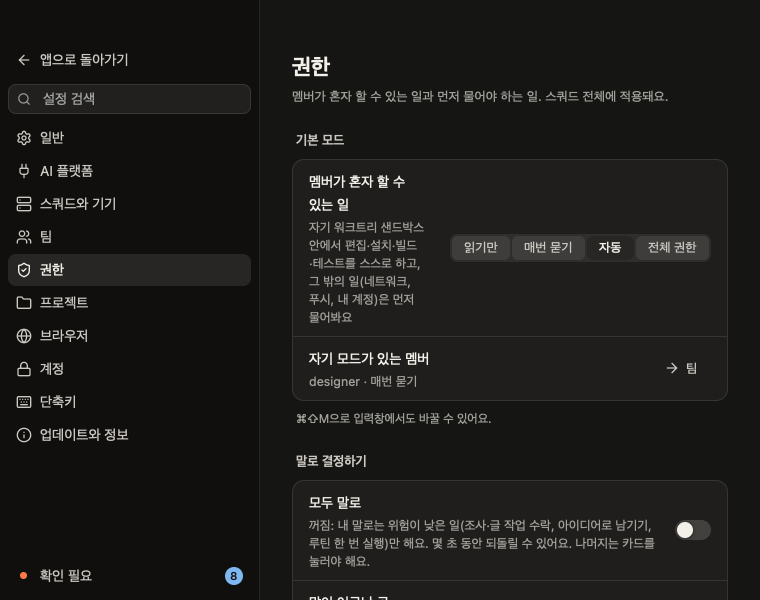
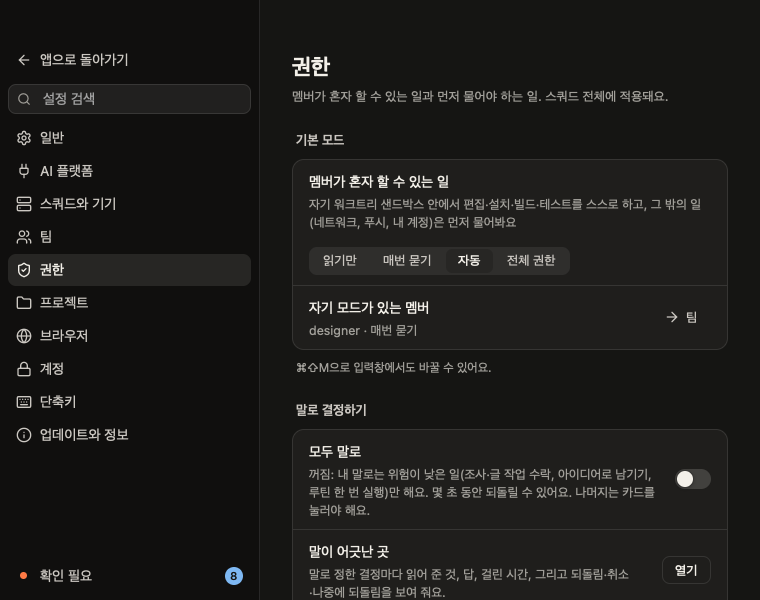
Desktop 760pt hierarchy: permission mode picker wraps under its words; studio wait card says what to answer and how to get there
The permission mode picker drops under its words in a narrow card. The studio's wait card names what to answer, keeps the directions' stage right under a pick, has an action that Enter and Space press (a pick opens this ticket's decision card), and takes only the first Tab.

diff --git a/crates/desktop/src/snapshot.rs b/crates/desktop/src/snapshot.rs
@@ -21,7 +21,8 @@
 //! `design[:<overview|colors|type|spacing|radius|shadow|motion|components|assets|guidelines|taste>]` (Design system, at a section) · `dsource:<squad|project:name>` (another system) · `ddraft` (its draft, or back) · `dwork` (the work under way on it, or back) · `dchanges` (what changed, opened or closed) · `dlight:<n>` / `dlight:off` (asset n big) · `dcomp:<n>[,<k>]` / `dcomp:off` (component n's kth picture big) · `dplay:<token>` (a motion token played, as under the pointer) · `dask` (ask the designer for one) · `dtoc:<n>` (the guidelines' nth heading) ·
 //! `dtab:<map|system>` (UI map or Design system) · `fflow:<id>` (a flow) · `fscreen:<id>` (a screen's card, clicked) · `fstate:<key>` (a state's chip; `+empty` for one missing) · `fmode:<light|dark>` · `fdata:<real|example>` (Real data or Example data) · `fwidth:<px>` · `fzoom` (the state big) · `fvideos` (the older walkthroughs, listed or not) · `fsay` ("Talk" on the open state) · `dsay:<token>` / `dsay:asset:<n>` / `dsay:component:<n>` ("Talk" on a colour or type style by name, asset n or component n) · `dtalk:<open|fold>` (the conversation beside the design screen) · `dunpoint:<n>` (chip n taken off) · `fkey:<left|right|up|down|escape>` ·
 //! `dcompare[:off]` (Compare and review, begun or ended) · `dside:<now|after>` · `dstep[:prev]` (the next or previous changed screen) · `daccept` · `dredo[:<words>]` ("Ask again"'s box, with words) · `dredosend` · `dversions` (Version history, opened or closed) · `drestore:<n>` (row n asked back: its confirmation) · `dtaste:<add|edit:<n>|type:<words>|save|cancel|remove:<n>|confirm:<n>|evidence:<n>>` (a taste note: write a new one, rewrite note n, type in its box, keep it, put the box away, remove note n, say "That's right" to note n, open or close its evidence) ·
-//! `cfocus` (the summary band's retry, focused by keyboard) · `mark:<label>` (a line in the log, with the process's CPU time and memory) · `a11yon` / `a11y:<json>` (the accessibility tree built, as for a screen reader; then written) · `scroll:<n>,<dy>` (n wheel turns a frame apart) · `wheel:<x>,<y>,<n>,<dy>` (the same with the pointer at `x,y`) · `pinch:<x>,<y>,<n>,<delta>` (a trackpad's pinch there, n frames of `delta` each) · `browser` (the browser panel, ⌘⇧B) · `doc:<path>` (a document in the side panel) · `packet` (the hand-over packet the member on screen opened with after its latest move to the other engine) · `docs` (briefs and plans, all in one place) · `docsfind:<words>` · `docsfilter:<project:<name>|squad|kind:<brief|plan>|status:<word>|clear>` · `docsopen:<n>` (its nth row, beside) · `docskeep:<set>,<n>` (keep copy n of a set saved under more than one project) · `dfold[:open]` (fold it to a rail, or open it again) · `dmore` (its "more" menu) · `term[:<line>]` (the terminal, with a line typed at its prompt) · `tkeys:<text>` (typed into it, `~` for Enter) · `tmove` (the terminal to the bottom, or back to the right) · `bpick:<n>` (its nth tab) · `bclose:<n>` (its ✕) · `bwheel` (a wheel over the page) · `btake` / `bgive` (its control bar: "Take over", "Give back") · `breveal:<page>` (a page waiting for the person, as Needs you opens it) · `bclick:<fx>,<fy>` (a click on the page, at fractions of its picture) · `bkeys:<text>` (typed key by key, `~` for Enter) · `bime:<step>|<step>|…` (an IME's steps composed, then the last committed: `bime:k|か`) · `press:<keystroke>` (one key through the window: `escape`, `cmd-,`) · `bopen:<url>` (a tab of the person's own) · `paste` (⌘V with what the clipboard holds) · `pair` ("Connect a phone"'s sheet) · `pair:allow|deny|retry|close` (its buttons) · `newsquad[:type:<name>|create|tab[:back]|close|failed|far|farout]` ("New squad…"'s sheet: a name, its Create, Tab, closed, a refusal shown; the window as if on another machine, attached or not) · `delsquad[:far]` ("Delete squad…"'s question for the window's squad; `far`, as if on another machine) · `orchestra[:<member>]` (Orchestration, a member's lane lit) · `studio:<ticket>` (the designer studio on a ticket; `studio:width:<n>` a width picked, `studio:item:<n>` the nth on its timeline opened big, `studio:back`) · `usage[:day|week|claude|codex|outside|cut:<tickets|members|projects>|hour[:<n>]|dismiss]` (the Usage screen: its stretch, its engine, outside equipe opened, a cut, an hour picked — the busiest, or the nth — and the fast burn's notice closed) · `disk` (the Disk panel) · `disk:fix<n>|all|yes|back|rescan|close` (a fix's sheet, every fix's, its yes, back, look again, close) · `bell:<sheet|notasked|denied|allowed>` (the notifications sheet; what macOS allows) · `newwindow[:<squad>]` (New Window, ⌘⇧N; a squad's "open in a new window") · `win:<n|first|last>` (the steps after it act on that window) · `titles[:<file>]` (every window's title, as the Window menu lists them) · `quit`. Without a script, one shot after `EQUIPE_SNAPSHOT_MS`
+//! `cfocus` (the summary band's retry, focused by keyboard) · `wfocus` (the studio's wait card action, focused by keyboard) · `mark:<label>` (a line in the log, with the process's CPU time and memory) · `a11yon` / `a11y:<json>` (the accessibility tree built, as for a screen reader; then written) · `scroll:<n>,<dy>` (n wheel turns a frame apart) · `wheel:<x>,<y>,<n>,<dy>` (the same with the pointer at `x,y`) · `pinch:<x>,<y>,<n>,<delta>` (a trackpad's pinch there, n frames of `delta` each) · `browser` (the browser panel, ⌘⇧B) · `doc:<path>` (a document in the side panel) · `packet` (the hand-over packet the member on screen opened with after its latest move to the other engine) · `docs` (briefs and plans, all in one place) · `docsfind:<words>` · `docsfilter:<project:<name>|squad|kind:<brief|plan>|status:<word>|clear>` · `docsopen:<n>` (its nth row, beside) · `docskeep:<set>,<n>` (keep copy n of a set saved under more than one project) · `dfold[:open]` (fold it to a rail, or open it again) · `dmore` (its "more" menu) · `term[:<line>]` (the terminal, with a line typed at its prompt) · `tkeys:<text>` (typed into it, `~` for Enter) · `tmove` (the terminal to the bottom, or back to the right) · `bpick:<n>` (its nth tab) · `bclose:<n>` (its ✕) · `bwheel` (a wheel over the page) · `btake` / `bgive` (its control bar: "Take over", "Give back") · `breveal:<page>` (a page waiting for the person, as Needs you opens it) · `bclick:<fx>,<fy>` (a click on the page, at fractions of its picture) · `bkeys:<text>` (typed key by key, `~` for Enter) · `bime:<step>|<step>|…` (an IME's steps composed, then the last committed: `bime:k|か`) · `press:<keystroke>` (one key through the window: `escape`, `cmd-,`) · `bopen:<url>` (a tab of the person's own) · `paste` (⌘V with what the clipboard holds) · `pair` ("Connect a phone"'s sheet) · `pair:allow|deny|retry|close` (its buttons) · `newsquad[:type:<name>|create|tab[:back]|close|failed|far|farout]` ("New squad…"'s sheet: a name, its Create, Tab, closed, a refusal shown; the window as if on another machine, attached or not) · `delsquad[:far]` ("Delete squad…"'s question for the window's squad; `far`, as if on another machine) · `orchestra[:<member>]` (Orchestration, a member's lane lit) · `studio:<ticket>` (the designer studio on a ticket; `studio:width:<n>` a width picked, `studio:item:<n>` the nth on its timeline opened big, `studio:back`) · `usage[:day|week|claude|codex|outside|cut:<tickets|members|projects>|hour[:<n>]|dismiss]` (the Usage screen: its stretch, its engine, outside equipe opened, a cut, an hour picked — the busiest, or the nth — and the fast burn's notice closed) · `disk` (the Disk panel) · `disk:fix<n>|all|yes|back|rescan|close` (a fix's sheet, every fix's, its yes, back, look again, close) · `bell:<sheet|notasked|denied|allowed>` (the notifications sheet; what macOS allows) · `newwindow[:<squad>]` (New Window, ⌘⇧N; a squad's "open in a new window") · `win:<n|first|last>` (the steps after it act on that window) · `titles[:<file>]` (every window's title, as the Window menu lists them) · `quit`. Without a script, one shot after `EQUIPE_SNAPSHOT_MS`
+>>>>>>> 2e905880 (Desktop 760pt hierarchy: permission mode picker wraps under its words; studio wait card says what to answer and how to get there)
 //! (default 3000) to `EQUIPE_SNAPSHOT`.
 //!
 //! `shot:` names its file with `{mode}` and `{width}` put in as the window is
@@ -1026,6 +1027,14 @@ pub fn run(mut handle: AnyWindowHandle, mut shell: Entity<Shell>, cx: &mut App) 
                     window.dispatch_keystroke(Keystroke::parse("f13").unwrap(), cx);
                     let handle = shell.read(cx).chat.compact_focus.0.clone();
                     window.focus(&handle, cx);
+                    shell.update(cx, |_, cx| cx.notify());
+                }
+                // The designer studio's wait card action reached by the keyboard, as Tab does.
+                "wfocus" => {
+                    window.dispatch_keystroke(Keystroke::parse("f13").unwrap(), cx);
+                    if let Some(handle) = shell.read(cx).studio.wait_focus.clone() {
+                        window.focus(&handle, cx);
+                    }
                     shell.update(cx, |_, cx| cx.notify());
                 }
                 "bime" => {

diff --git a/crates/desktop/src/views/studio.rs b/crates/desktop/src/views/studio.rs
@@ -131,7 +131,9 @@ pub fn render(shell: &Shell, cx: &mut Context<Shell>) -> AnyElement {
     let working = member.is_some_and(|m| m.presence == crate::state::Presence::Working && m.ticket == Some(id));
     // Waiting for the person exactly as the sidebar weighs it (`Model::status`).
     let permission = member.and_then(|m| shell.model.approvals.first_for(m.session)).map(|a| format!("{} · {}", a.tool, rules::command_words(&a.action)));
-    let question = member.and_then(|m| shell.model.asked.from(&m.name)).map(|s| {
+    // The member's questions in the order its conversation offers them: the card names the first, which is the one the conversation opens on.
+    let sets = member.map(|m| shell.model.questions_waiting().into_iter().filter(|(s, _)| s.member == m.name).map(|(s, _)| s).collect::<Vec<_>>()).unwrap_or_default();
+    let question = sets.first().copied().map(|s| {
         let q = s.questions.first();
         (q.map(|q| if q.header.trim().is_empty() { q.question.clone() } else { q.header.clone() }).unwrap_or_default(), s.ticket)
     });
@@ -214,10 +216,35 @@ pub fn render(shell: &Shell, cx: &mut Context<Shell>) -> AnyElement {
         .when(pending > 0, |row| row.child(div().flex_none().text_size(px(META)).text_color(p.muted).child(t!("studio.pending", count = pending))))
         .children(member.and_then(|m| m.engine).map(|e| super::switching::label(p, e)));
 
+    // The decision card for this ticket's direction question: the member's own question set, else the ticket's row.
+    let pick_need = sets.iter().find(|s| s.ticket == Some(id)).map(|s| crate::state::Need::Questions(s.id)).unwrap_or(crate::state::Need::Ticket(id));
+    // Waiting on the person: what to answer and the way to it, next to the status line, above the log.
+    shell.studio.wait_button.set(false);
+    let wait_card = match &status.presence {
+        rules::Presence::Waiting(wait) => Some(wait_card(p, wait, files, member, pick_need, &shell.studio.wait_button, shell.studio.wait_focus.as_ref(), cx)),
+        _ => None,
+    };
+
+    if !shell.studio.wait_button.get() {
+        shell.studio.wait_tab_used.set(false);
+    }
     let mut body = v_flex().id("studio-body").flex_1().min_h_0().w_full().overflow_y_scroll().track_scroll(&shell.studio.scroll).px(px(PAD)).pt_4().pb_10().gap_5();
-    body = body.child(feed_card(p, &feed, now));
-    body = body.child(rail(p, &steps, narrow, now));
-    body = body.child(stage(shell, id, files, &items, now, cx));
+    // Waiting on the person: what to answer comes before the log of what was done; a pick has its directions' stage right under it.
+    let waiting_now = wait_card.is_some();
+    let picking = matches!(status.presence, rules::Presence::Waiting(rules::WaitFor::Pick));
+    body = body.children(wait_card);
+    if picking {
+        body = body.child(stage(shell, id, files, &items, now, cx));
+    } else if !waiting_now {
+        body = body.child(feed_card(p, &feed, now));
+    }
+    body = body.child(rail(p, &steps, narrow, now, waiting_now));
+    if waiting_now {
+        body = body.child(feed_card(p, &feed, now));
+    }
+    if !picking {
+        body = body.child(stage(shell, id, files, &items, now, cx));
+    }
     if let Some(f) = files {
         body = body.children(recent_strip(shell, id, f, now, cx));
     }
@@ -372,15 +399,68 @@ fn who(p: Palette, m: &Member) -> impl IntoElement + use<> {
     h_flex().flex_none().gap_1p5().items_center().child(crate::theme::avatar(p, &m.role, &m.name, 18.)).child(div().text_size(px(13.)).font_weight(FontWeight::MEDIUM).text_color(p.member(hue)).child(m.name.clone()))
 }
 
+/// The card for what the person is waited on for: what to answer, where, and the way there.
+fn wait_card(p: Palette, wait: &rules::WaitFor, files: Option<&Studio>, member: Option<&Member>, pick_need: crate::state::Need, wait_button: &std::cell::Cell<bool>, focus: Option<&gpui_kit::FocusHandle>, cx: &mut Context<Shell>) -> AnyElement {
+    use rules::WaitFor;
+    let mut names: Vec<String> = Vec::new();
+    let words = match wait {
+        WaitFor::Pick => {
+            names = files.map(|f| f.directions.iter().map(|d| d.name.clone()).collect()).unwrap_or_default();
+            if names.is_empty() { t!("studio.wait_pick_plain").to_owned() } else { t!("studio.wait_pick", count = names.len()) }
+        }
+        WaitFor::Answer { what, ticket: None } => t!("studio.wait_question", what = what),
+        WaitFor::Answer { what, ticket: Some(id) } => t!("studio.wait_question_elsewhere", id = id, what = what),
+        WaitFor::Permission(what) => t!("studio.wait_ok", what = what),
+        WaitFor::Ticket(id) => t!("studio.wait_ticket", id = id),
+        WaitFor::Something => t!("studio.wait_this").to_owned(),
+    };
+    // A pick is made in the inbox's decision card; the rest is answered in the member's conversation.
+    let go = if matches!(wait, WaitFor::Pick) {
+        Some((t!("studio.wait_go_pick"), None))
+    } else {
+        member.map(|m| (if matches!(wait, WaitFor::Permission(_)) { t!("studio.wait_go_ok") } else { t!("studio.wait_go") }, Some(m.session)))
+    }
+    .map(|(label, session)| {
+        wait_button.set(true);
+        let mut button = ui::button(p, "studio-wait-go", ui::Kind::Primary, label).icon(if session.is_none() { Icon::Inbox } else { Icon::Message });
+        if let Some(focus) = focus {
+            button = button.focus(focus);
+        }
+        button.on_click(cx.listener(move |this, _, window, cx| match session {
+            Some(session) => this.select_member(session, window, cx),
+            None => {
+                this.open_side_menu(crate::board::Menu::Inbox, cx);
+                this.board_pick(pick_need, cx);
+            }
+        }))
+    });
+    h_flex()
+        .id("studio-wait")
+        .w_full()
+        .flex_wrap()
+        .gap_x_3()
+        .gap_y_2()
+        .items_center()
+        .p_3()
+        .rounded(px(R_LG))
+        .bg(p.raised)
+        .border_1()
+        .border_color(p.orange)
+        .child(div().min_w_0().flex_grow(1.).flex_shrink(1.).flex_basis(px(160.)).text_size(px(SMALL)).line_height(px(SMALL_LINE)).font_weight(FontWeight::MEDIUM).text_color(p.text).child(v_flex().gap_1().child(div().child(words)).when(!names.is_empty(), |c| c.child(h_flex().flex_wrap().gap_x_3().text_color(p.text2).font_weight(FontWeight::NORMAL).children(names.into_iter().map(|n| div().child(n)))))))
+        .children(go)
+        .into_any_element()
+}
+
 /// The steps, left to right; in a narrow room, two to a row.
-fn rail(p: Palette, steps: &[Step], narrow: bool, now: u64) -> AnyElement {
+fn rail(p: Palette, steps: &[Step], narrow: bool, now: u64, waiting_card: bool) -> AnyElement {
     let mut row = h_flex().id("studio-rail").w_full().gap_2().flex_wrap().items_stretch().role(Role::List).aria_label(t!("studio.steps"));
     for (n, s) in steps.iter().enumerate() {
         let (fill, edge, ink) = match s.mark {
             Mark::Done => (p.raised, p.hair, p.text),
             Mark::Now => (p.accent_bg, p.accent, p.text),
             Mark::Attention => (p.danger_bg(), p.danger(), p.text),
-            Mark::Waiting => (p.raised, p.orange, p.text),
+            // The wait card above carries the orange edge; the step keeps its dot.
+            Mark::Waiting => (p.raised, if waiting_card { p.hair } else { p.orange }, p.text),
             Mark::Ahead | Mark::Skipped => (p.bg, p.hair, p.muted),
         };
         let glyph: AnyElement = match s.mark {
@@ -662,6 +742,8 @@ impl Shell {
     /// conversation beside it the member's.
     pub fn open_studio(&mut self, ticket: TicketId, window: &mut Window, cx: &mut Context<Self>) {
         self.studio.watch(ticket);
+        self.studio.wait_focus.get_or_insert_with(|| cx.focus_handle().tab_stop(true));
+        self.studio.wait_tab_used.set(false);
         self.show(Screen::Studio, cx);
         self.studio_ask(cx);
         if self.design_talk_open(window, cx) {
@@ -849,7 +931,7 @@ mod tests {
     fn its_wait_is_read_from_what_the_sidebar_reads() {
         let source = include_str!("studio.rs");
         let code = &source[..source.find("#[cfg(test)]").unwrap()];
-        for read in ["approvals.first_for(", "asked.from(", "TicketStatus::Waiting && t.owner"] {
+        for read in ["approvals.first_for(", "questions_waiting(", "TicketStatus::Waiting && t.owner"] {
             assert!(code.contains(read), "the studio reads {read}");
         }
     }

diff --git a/crates/desktop/src/views/settings.rs b/crates/desktop/src/views/settings.rs
@@ -137,6 +137,9 @@ impl SettingsUi {
 
 // ── the page's pieces ──
 
+/// The narrowest a row's words get beside a wrapping control before it drops below them.
+const WRAP_TEXT_MIN: f32 = 280.;
+
 /// One row: what it is, a line saying what it does, and its control. `words`
 /// are what else search finds it by.
 pub(super) struct Line {
@@ -149,13 +152,15 @@ pub(super) struct Line {
     compact: bool,
     /// Drawn under the words, across the row (a code to enter, a usage bar).
     below: Option<AnyElement>,
+    /// The control drops under the words when the row is too narrow to keep them readable beside it.
+    wrap: bool,
 }
 
 impl Line {
     pub(super) fn new(label: impl Into<String>, desc: impl Into<String>) -> Self {
         let label = label.into();
         let desc: String = desc.into();
-        Self { label: div().child(label.clone()).into_any_element(), text: label, desc: (!desc.is_empty()).then_some((desc, false)), words: String::new(), control: None, compact: false, below: None }
+        Self { label: div().child(label.clone()).into_any_element(), text: label, desc: (!desc.is_empty()).then_some((desc, false)), words: String::new(), control: None, compact: false, below: None, wrap: false }
     }
 
     pub(super) fn control(mut self, control: impl IntoElement) -> Self {
@@ -185,6 +190,12 @@ impl Line {
     /// The label drawn otherwise (a member's mark, a rule in monospace); `text` stays what search reads.
     pub(super) fn label_el(mut self, el: impl IntoElement) -> Self {
         self.label = el.into_any_element();
+        self
+    }
+
+    /// Its control wraps under the words in a narrow row.
+    pub(super) fn wrap_control(mut self) -> Self {
+        self.wrap = true;
         self
     }
 
@@ -905,6 +916,7 @@ fn permissions(shell: &Shell, cx: &mut Context<Shell>) -> Vec<Section> {
     let mode = Line::new(t!("settings.squad_mode"), mode_summary(model.mode))
         .warn(model.mode == Mode::Full)
         .words(Mode::ALL.iter().map(|m| format!("{} {}", mode_label(*m), mode_summary(*m))).collect::<Vec<_>>().join(" ") + " permission mode")
+        .wrap_control()
         .control(if connected { segmented(shell, "squad-mode", modes, model.mode, |this, m, _, _| this.set_squad_mode(m), cx) } else { value(p, mode_label(model.mode)) });
     let overrides: Vec<String> = model.ordered().iter().filter_map(|m| model.member_modes.get(&m.session).map(|mode| format!("{} · {}", m.name, mode_label(*mode)))).collect();
     let mut first = vec![mode];
@@ -1138,8 +1150,10 @@ fn intro(category: Category) -> &'static str {
 fn draw_line(p: Palette, line: Line, first: bool) -> AnyElement {
     let compact = line.compact;
     let below = line.below;
+    let wrap = line.wrap;
     let row = h_flex()
         .w_full()
+        .when(wrap, |r| r.flex_wrap().gap_y(px(8.)))
         .min_h(px(if compact { 40. } else if line.desc.is_some() { 60. } else { 48. }))
         .px_4()
         .py(px(if compact { 6. } else { 10. }))
@@ -1148,7 +1162,8 @@ fn draw_line(p: Palette, line: Line, first: bool) -> AnyElement {
         .when(!first, |r| r.border_t_1().border_color(p.hair))
         .child(
             v_flex()
-                .flex_1()
+                .when(!wrap, |c| c.flex_1())
+                .when(wrap, |c| c.flex_grow(1.).flex_shrink(1.).flex_basis(px(WRAP_TEXT_MIN)))
                 .min_w_0()
                 .gap(px(2.))
                 .child(div().text_size(px(if compact { SMALL } else { UI })).text_color(p.text).child(line.label))

diff --git a/crates/desktop/src/main.rs b/crates/desktop/src/main.rs
@@ -718,6 +718,28 @@ impl Shell {
                 }
                 return;
             }
+            // On the studio's wait card action, Esc or Shift-Tab goes back to the text box when it is on screen.
+            if (key == "escape" || (key == "tab" && modifiers.shift)) && !modifiers.platform && !modifiers.control && !modifiers.alt && this.update(cx, |shell, cx| matches!(shell.screen, Screen::Studio) && shell.design_talk_open(window, cx) && shell.studio.wait_focus.as_ref().is_some_and(|f| f.is_focused(window))).unwrap_or(false) {
+                this.update(cx, |shell, cx| shell.composer.focus(window, cx)).ok();
+                cx.stop_propagation();
+                return;
+            }
+            // The studio, outside a text box with words in it: only the first Tab (from an empty text box, or from nothing) reaches the wait card's action; the rest follow the usual order.
+            if key == "tab" && !modifiers.shift && !modifiers.platform && !modifiers.control && !modifiers.alt && this.update(cx, |shell, cx| {
+                let focus = shell.studio.wait_focus.clone().filter(|_| matches!(shell.screen, Screen::Studio) && shell.studio.wait_button.get());
+                let free = if shell.composer.is_focused(window, cx) { shell.composer.state.read(cx).value().is_empty() } else { window.focused(cx).is_none() };
+                match focus {
+                    Some(f) if free && !f.is_focused(window) && !shell.studio.wait_tab_used.get() => {
+                        shell.studio.wait_tab_used.set(true);
+                        window.focus(&f, cx);
+                        true
+                    }
+                    _ => false,
+                }
+            }).unwrap_or(false) {
+                cx.stop_propagation();
+                return;
+            }
             // The document's text, focused by the keyboard: the arrows, Page
             // keys, Space, Home and End scroll it. Its buttons keep Enter and
             // Space, which press them (on the key's release), from every

diff --git a/crates/desktop/src/ui.rs b/crates/desktop/src/ui.rs
@@ -234,7 +234,27 @@ impl RenderOnce for Button {
                 // A 2px ring, 3px off the button: the surface is drawn between,
                 // so the words never sit on the accent.
                 let shadow = |color: Rgba, spread: f32| BoxShadow { color: color.into(), offset: point(px(0.), px(0.)), blur_radius: px(0.), spread_radius: px(spread), inset: false };
-                b.track_focus(&focus).focus_visible(move |s| s.shadow(vec![shadow(ring, 5.), shadow(gap, 3.)]))
+                let press = self.on_click.clone();
+                b.track_focus(&focus)
+                    .focus_visible(move |s| s.shadow(vec![shadow(ring, 5.), shadow(gap, 3.)]))
+                    // Tab moves on from a button as it does from a switch; Enter and Space press it.
+                    .on_key_down(move |event: &KeyDownEvent, window, cx| {
+                        let k = &event.keystroke;
+                        if k.modifiers.platform || k.modifiers.control || k.modifiers.alt {
+                            return;
+                        }
+                        match k.key.as_str() {
+                            "tab" if k.modifiers.shift => window.focus_prev(cx),
+                            "tab" => window.focus_next(cx),
+                            "enter" | "space" if !k.modifiers.shift => {
+                                if let Some(f) = &press {
+                                    f(&ClickEvent::default(), window, cx);
+                                }
+                            }
+                            _ => return,
+                        }
+                        cx.stop_propagation();
+                    })
             })
             .when_some(self.on_click.filter(|_| live), |b, f| b.on_click(move |e, w, cx| f(e, w, cx)));
         let b = match self.tip {

diff --git a/crates/desktop/src/studio.rs b/crates/desktop/src/studio.rs
@@ -49,6 +49,12 @@ pub struct StudioUi {
     pub scroll: gpui_kit::ScrollHandle,
     /// The studio's own width as last drawn: beside the sidebar, less the conversation docked.
     pub room: f32,
+    /// The wait card's action as a Tab stop, kept across draws.
+    pub wait_focus: Option<gpui_kit::FocusHandle>,
+    /// Whether the last draw had the wait card's action (set while drawing).
+    pub wait_button: std::cell::Cell<bool>,
+    /// The first Tab of this wait went to the card's action; the rest follow the usual order.
+    pub wait_tab_used: std::cell::Cell<bool>,
 }
 
 impl StudioUi {
